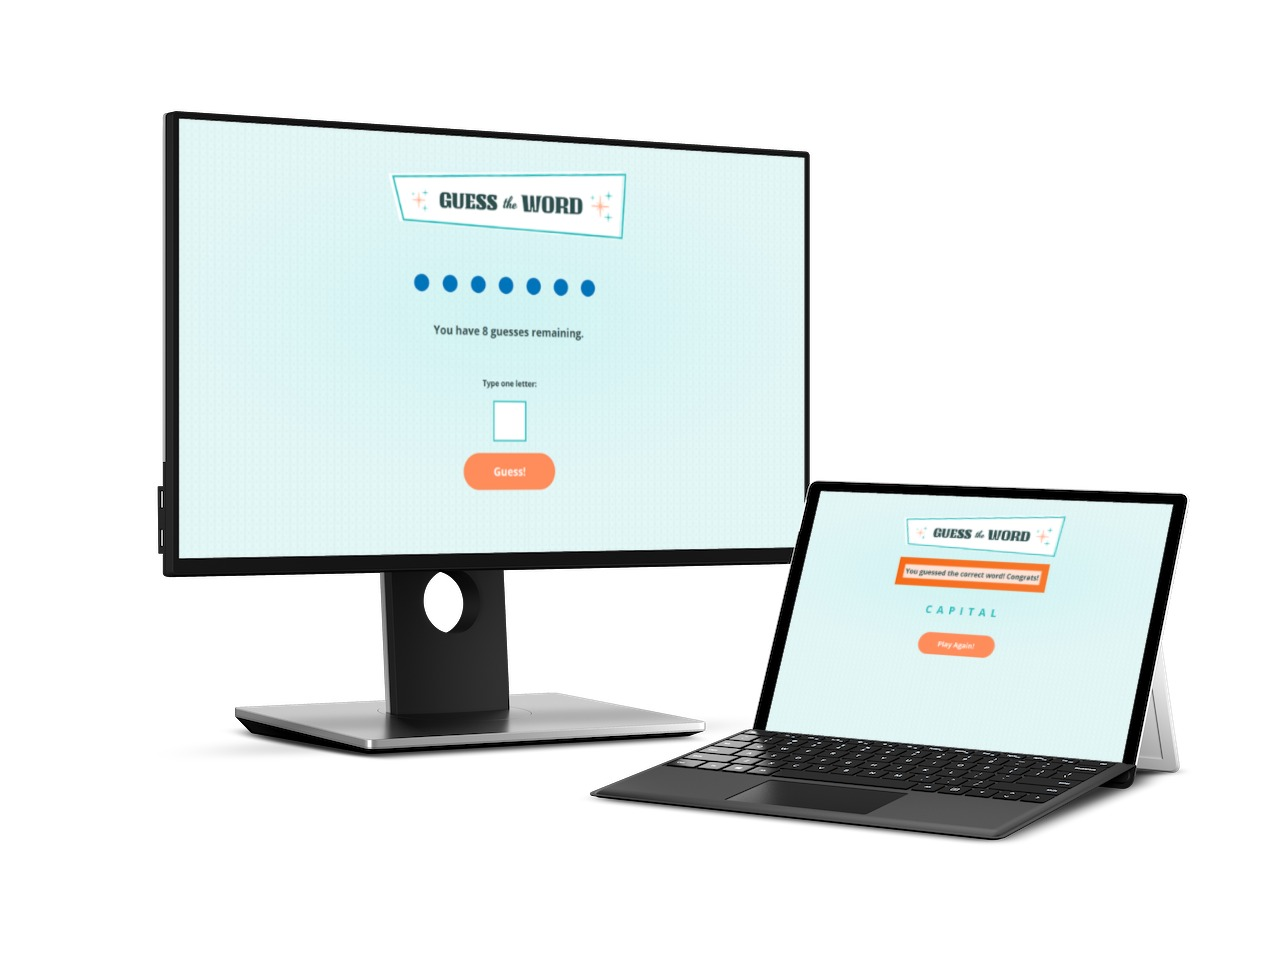
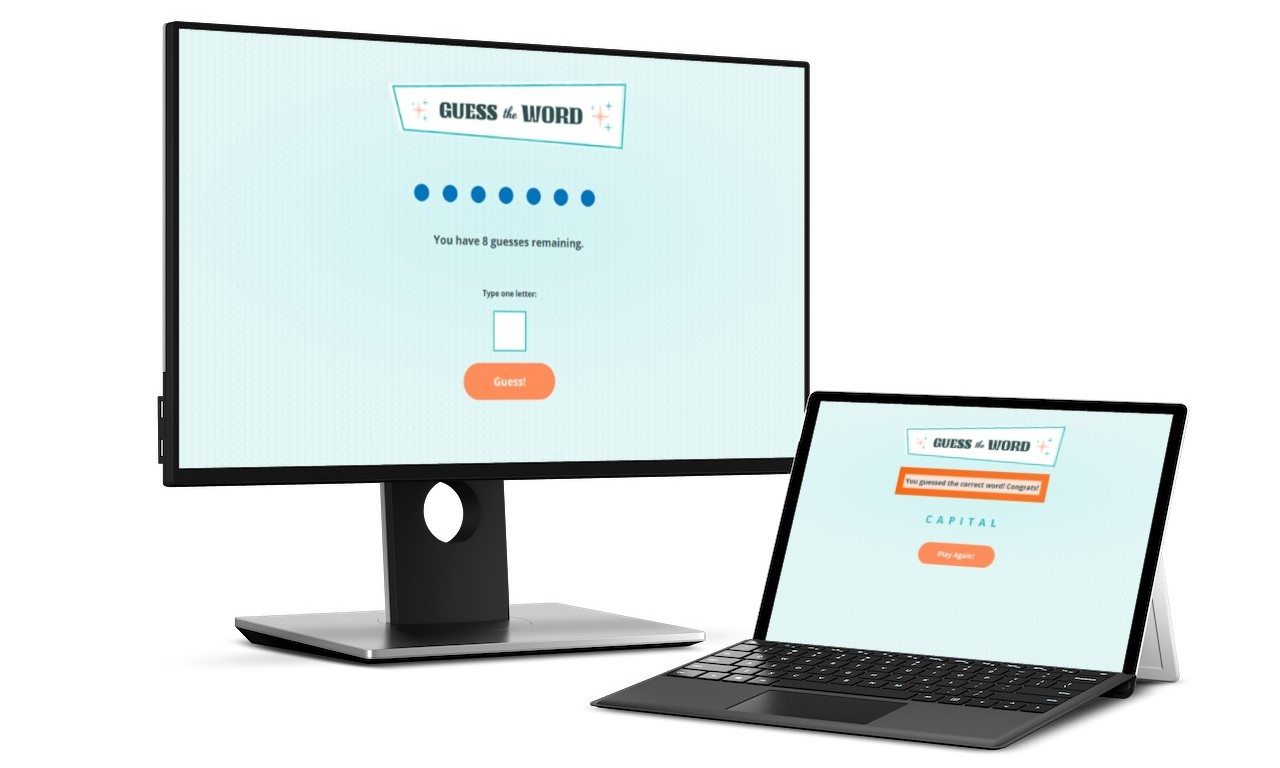
Update to tablet styles for work/skills

Changed region(s): [[0.125, 0.5, 0.9375, 1.0], [0.125, 0.0312, 0.6562, 0.5312]]

diff --git a/index.html b/index.html
@@ -74,24 +74,6 @@
 
           <div class="project-card">
             <figure class="project-img">
-              <a href="https://ll-zerr.github.io/unplugged/" target="_blank"><img src="img/smartmockups_unplugged.jpg" alt="Homepage of a retreat site on desktop, mobile, and tablet."></a>
-            </figure>
-          
-            <div class="project-content">
-              <h3>Unplugged</h3>
-              <p class="project-description">A multipage website that uses mobile responsive design. Features Google Map integration and custom code.</p>
-              <p class="project-skills"><span>Skills:</span> HTML, CSS, Flexbox, Responsive Typography</p>
-              <p class="project-tools"><span>Tools:</span> Chrome Dev Tools, Photoshop, GitHub Pages</p>
-            </div>
-
-            <div class="project-links">
-              <button><a href="https://github.com/ll-zerr/unplugged" target="_blank"><i class="fa-brands fa-github"></i>GitHub Repo</a></button>
-              <button><a href="https://ll-zerr.github.io/unplugged/" target="_blank"><i class="fa-sharp fa-solid fa-display"></i>Live Version</a></button>
-            </div>
-          </div>
-
-          <div class="project-card">
-            <figure class="project-img">
               <a href="https://6hrkeg.csb.app/" target="_blank"><img src="img/smartmockups_snui.png" alt="Interactive sticky notes on a desktop sceen"></a>
             </figure>
           
@@ -146,6 +128,24 @@
 
           <div class="project-card">
             <figure class="project-img">
+              <a href="https://ll-zerr.github.io/unplugged/" target="_blank"><img src="img/smartmockups_unplugged.jpg" alt="Homepage of a retreat site on desktop, mobile, and tablet."></a>
+            </figure>
+          
+            <div class="project-content">
+              <h3>Unplugged</h3>
+              <p class="project-description">A multipage website that uses mobile responsive design. Features Google Map integration and custom code.</p>
+              <p class="project-skills"><span>Skills:</span> HTML, CSS, Flexbox, Responsive Typography</p>
+              <p class="project-tools"><span>Tools:</span> Chrome Dev Tools, Photoshop, GitHub Pages</p>
+            </div>
+
+            <div class="project-links">
+              <button><a href="https://github.com/ll-zerr/unplugged" target="_blank"><i class="fa-brands fa-github"></i>GitHub Repo</a></button>
+              <button><a href="https://ll-zerr.github.io/unplugged/" target="_blank"><i class="fa-sharp fa-solid fa-display"></i>Live Version</a></button>
+            </div>
+          </div>
+
+          <div class="project-card">
+            <figure class="project-img">
               <a href="https://ll-zerr.github.io/simon-game/"><img src="img/smartmockups_simon-game.png" alt="Responsive simon game shown on desktop and mobile versions."></a>
             </figure>
           
@@ -175,10 +175,10 @@
           <p class="skill">HTML and CSS</p>
           <p class="skill">JavaScript</p>
           <p class="skill">React and JSX</p>
-          <p class="skill">Responsive Web Development</p>
+          <p class="skill">jQuery</p>
           <p class="skill">Git and Github</p>
           <p class="skill">Bootstrap</p>
-          <p class="skill">jQuery</p>
+          <p class="skill">Responsive Web Development</p>
         </div>
 
         <h3>Tech Stack</h3>

diff --git a/css/main.css b/css/main.css
@@ -487,13 +487,13 @@ h4 {
     width: 85%;
   }
 
-  .work-projects {
+  .work-projects, .language-wrapper {
     display: flex;
     flex-flow: row wrap;
     justify-content: space-around;
   }
   
-  .project-card {
+  .project-card, .skill {
     flex-basis: 40%;
   }
 
